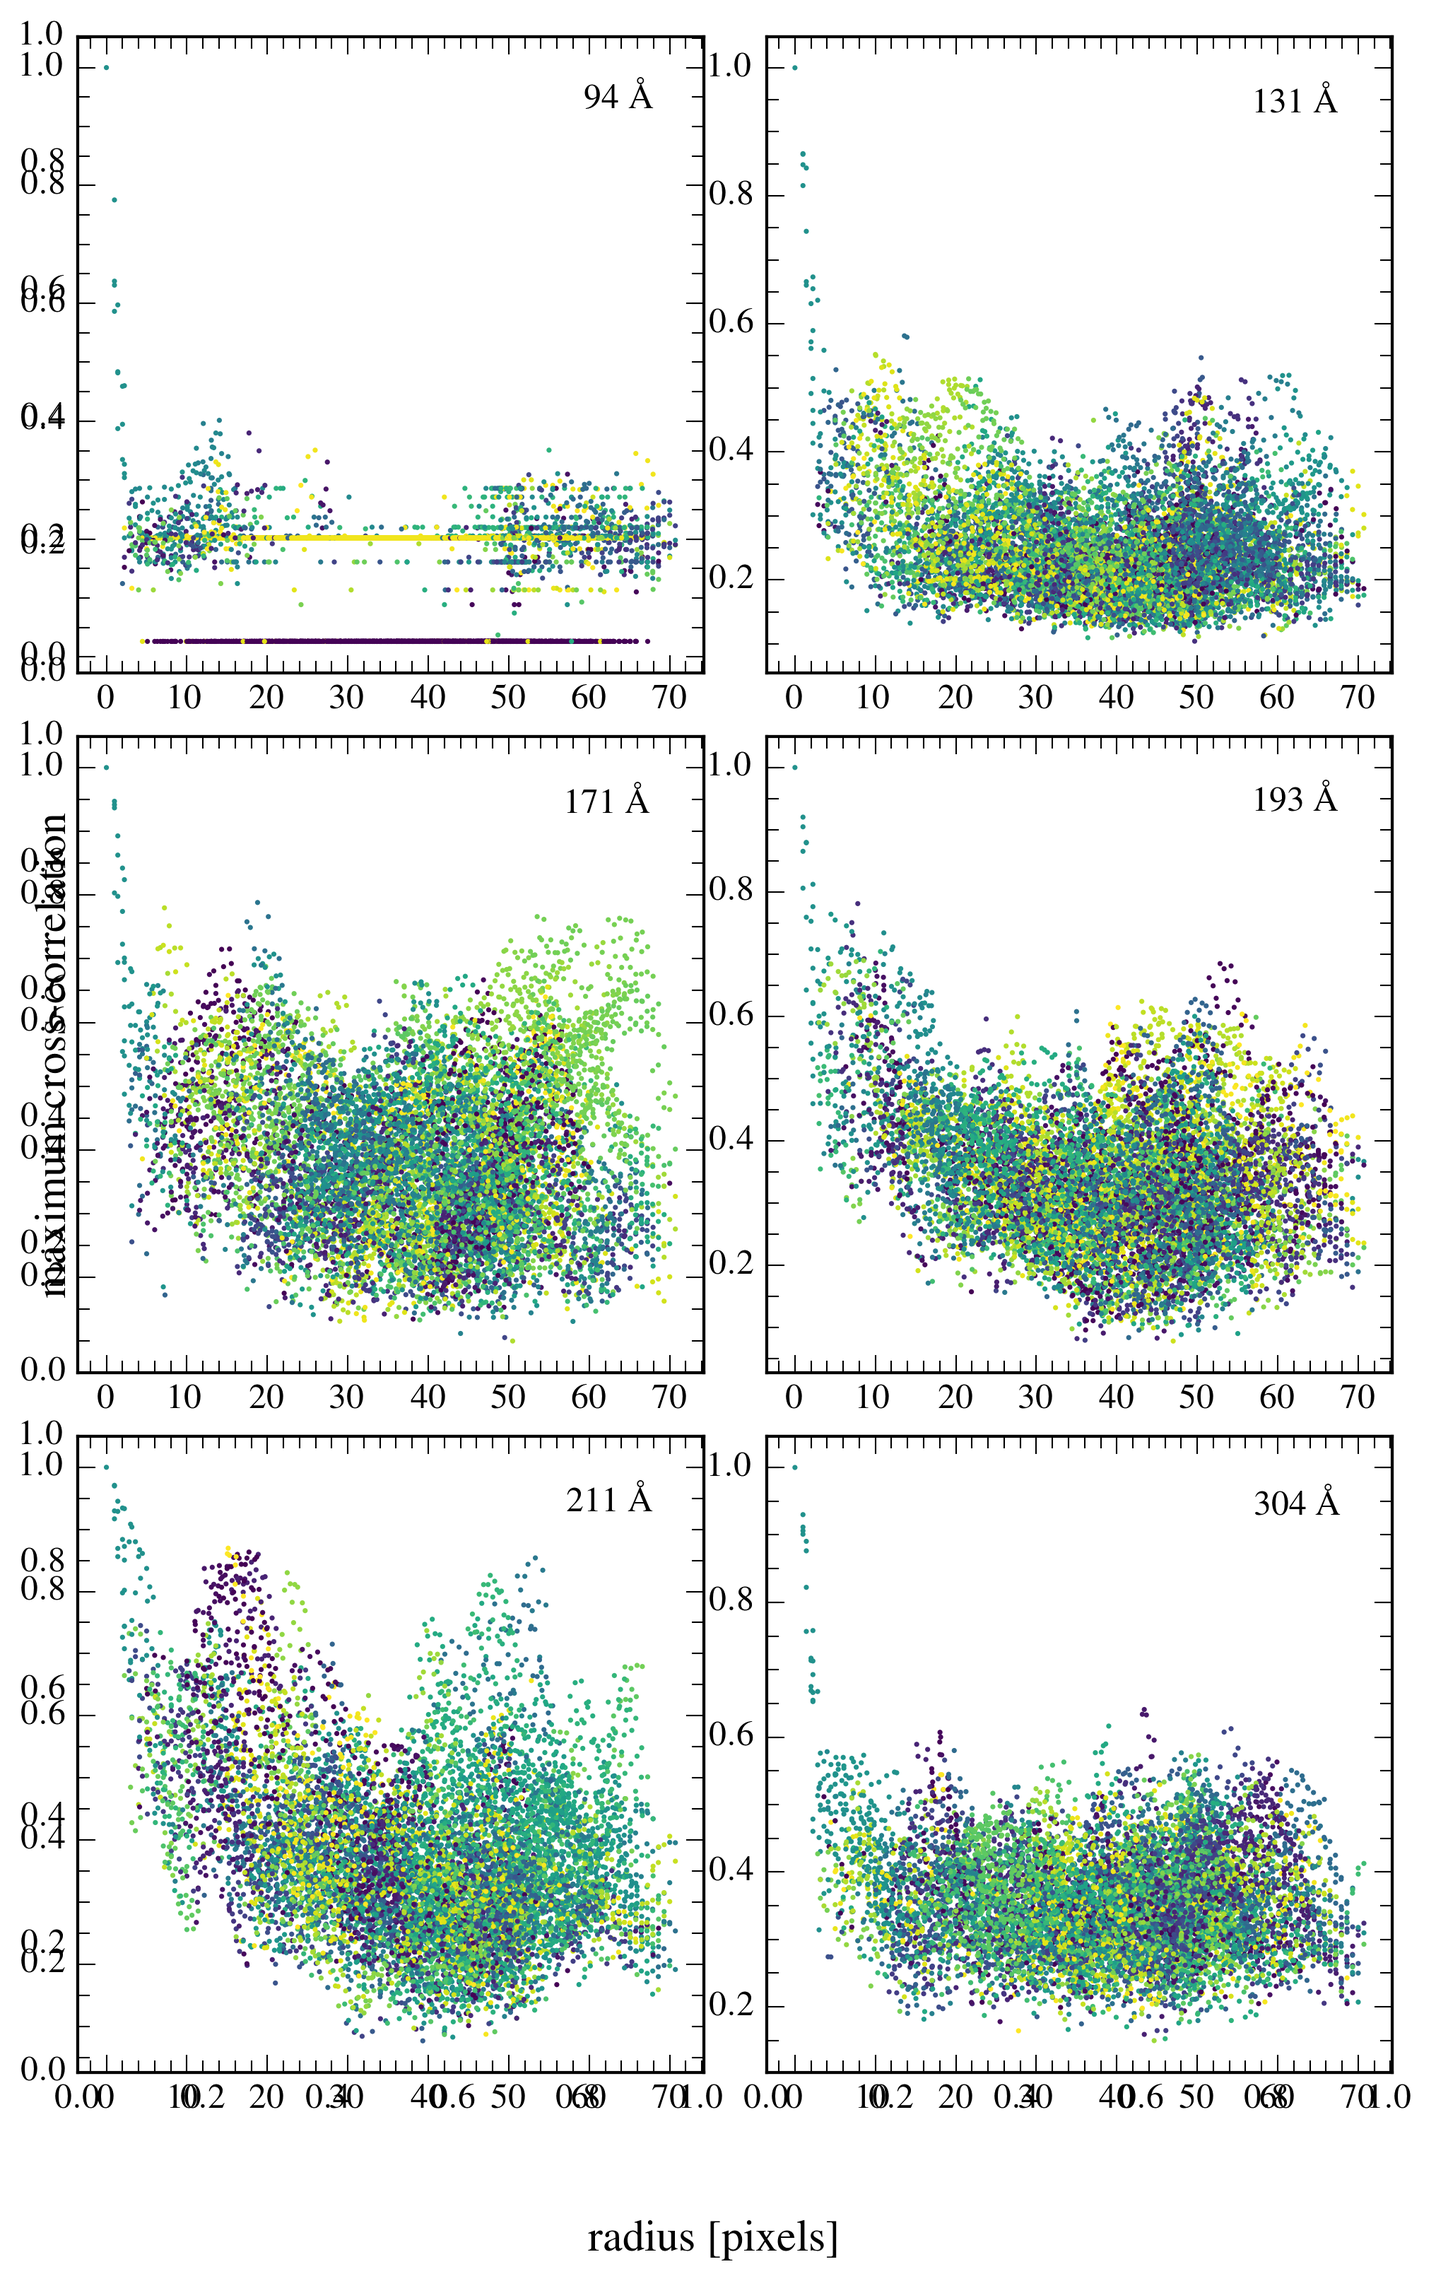
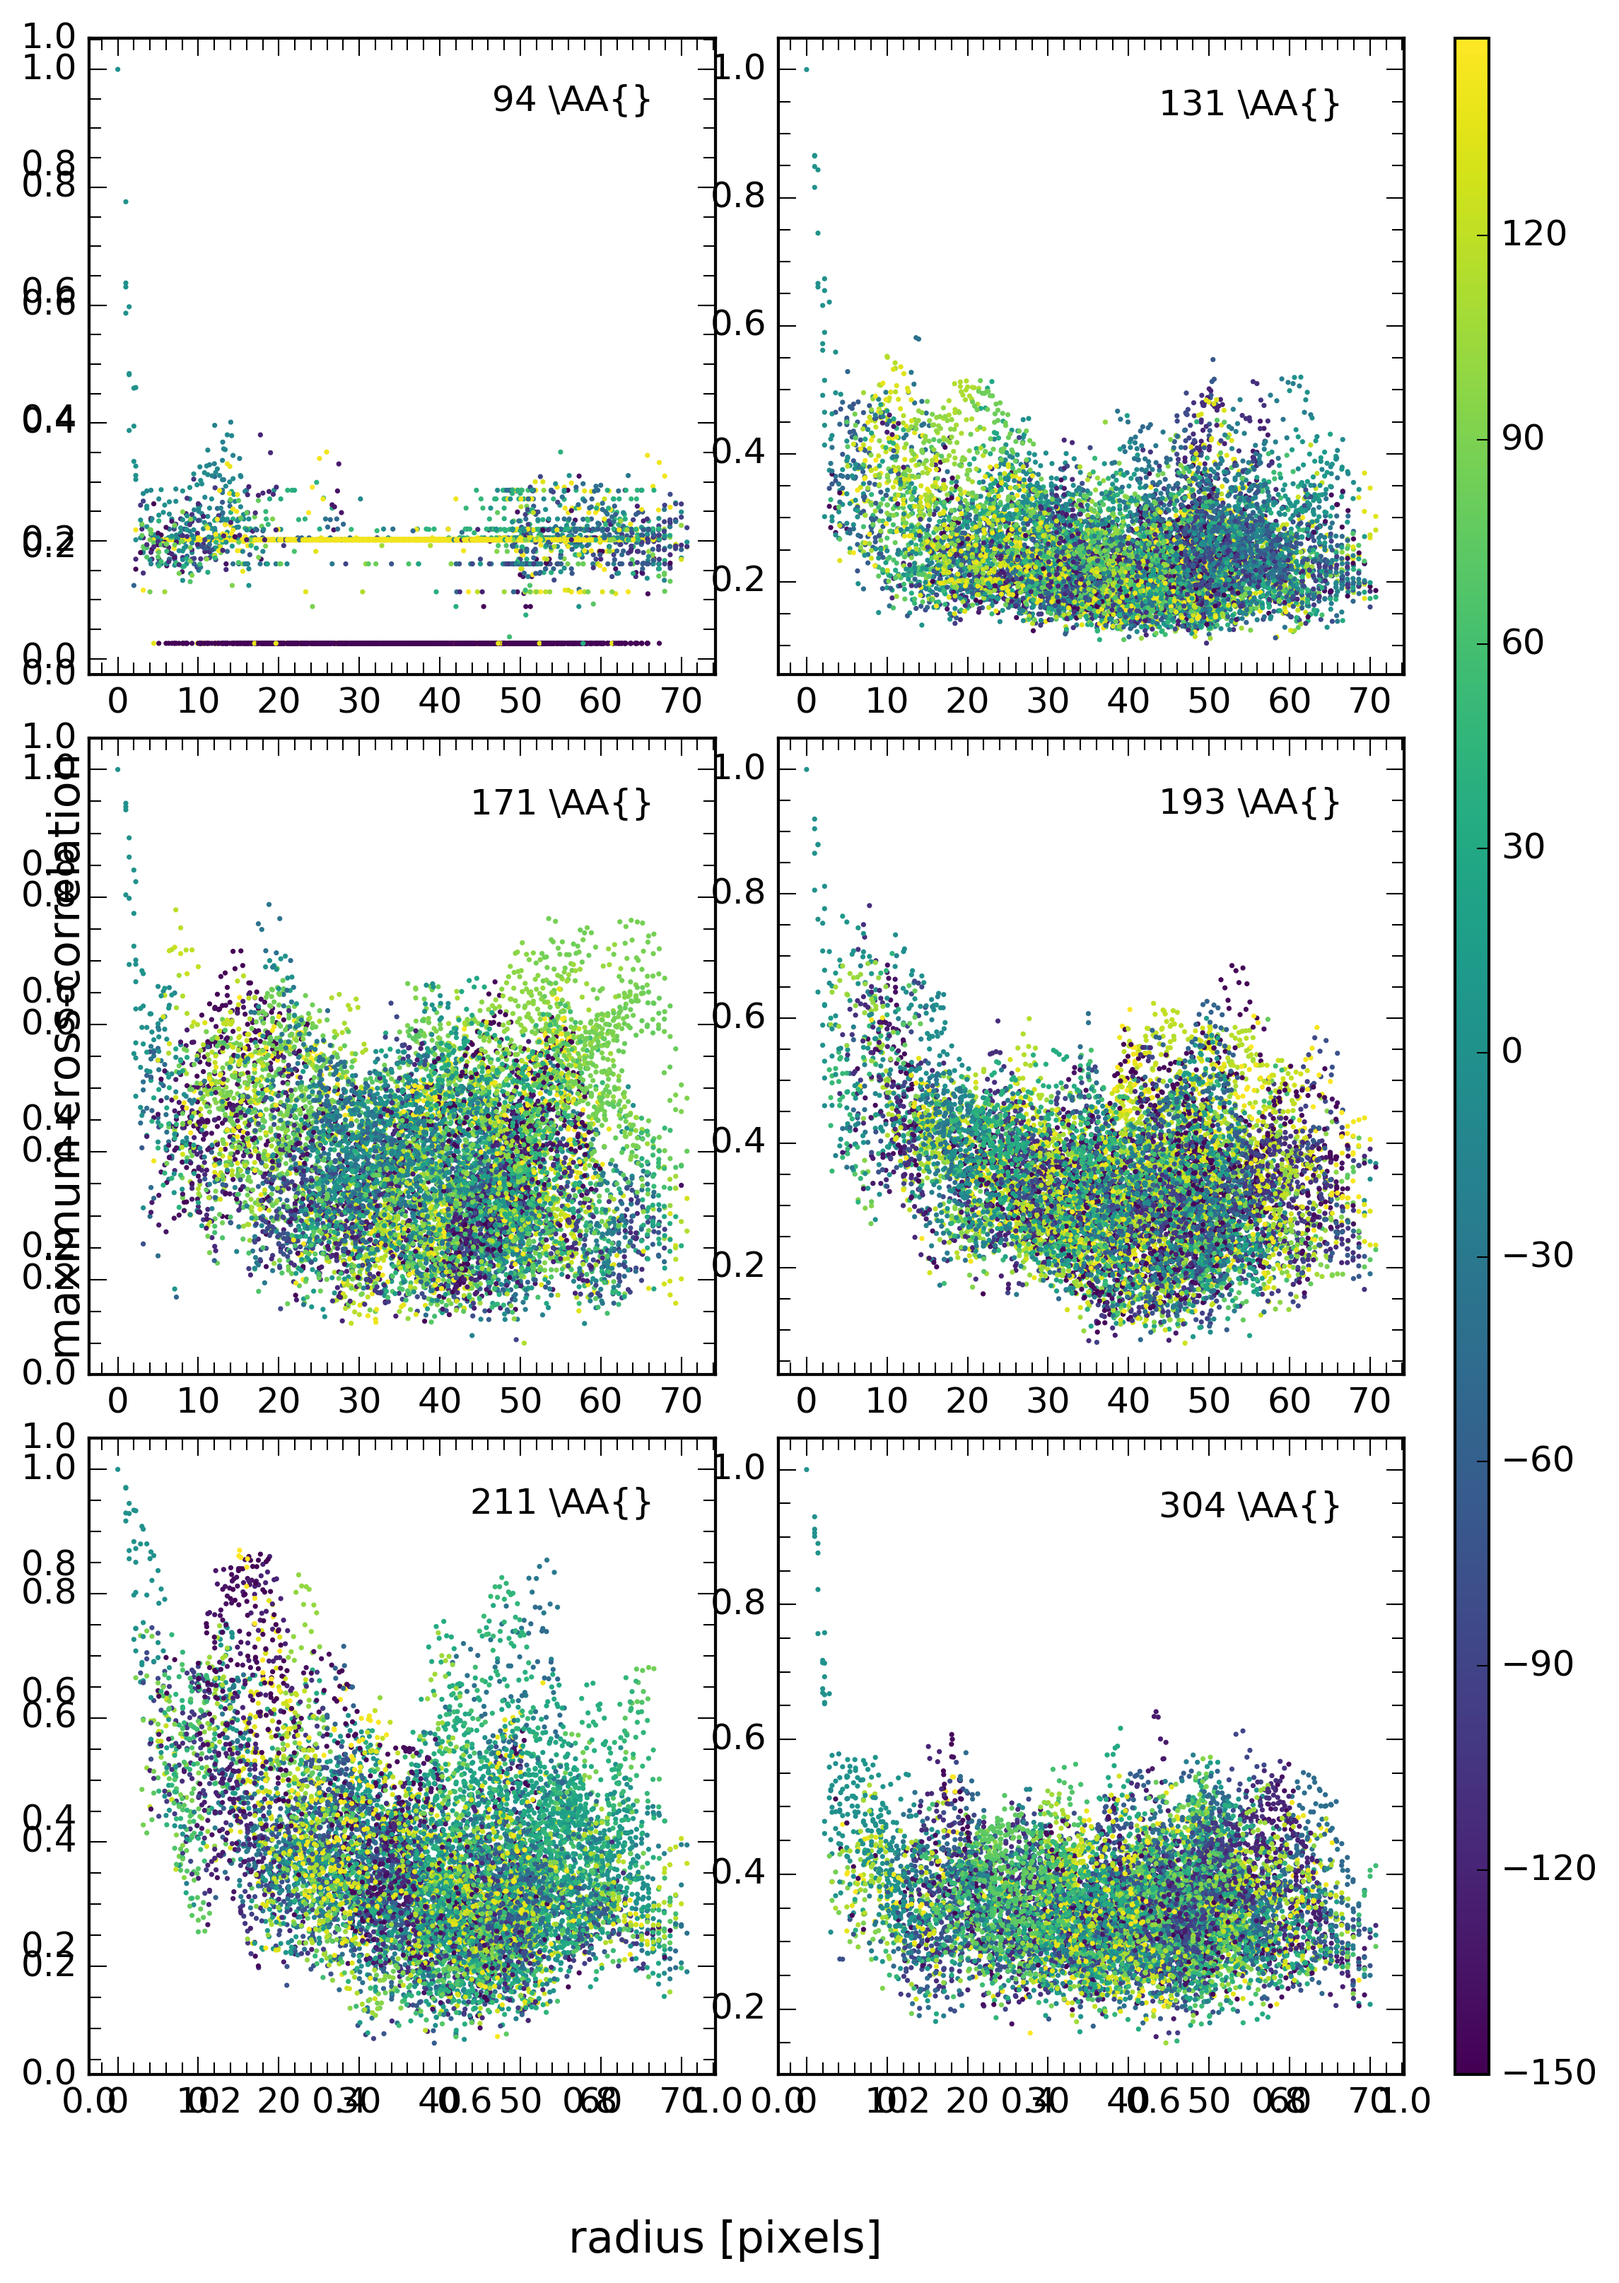
codes

diff --git a/new_codes/bp_size/plots.py b/new_codes/bp_size/plots.py
@@ -43,9 +43,9 @@ for i in range(0, len(waves)):
 fig.text(0.5, 0.03, 'radius [pixels]', ha='center', fontsize=fontsize)
 fig.text(0.1, 0.5, 'maximum cross-correlation', va='center', rotation='vertical', fontsize=fontsize)
 
-#cax = fig.add_axes([0.93, 0.10, 0.02, 0.80])
+cax = fig.add_axes([0.93, 0.10, 0.02, 0.80])
 #step=30
-#cbar = fig.colorbar(m, cax=cax)
+cbar = fig.colorbar(m, cax=cax)
 #cbar.set_ticks(np.arange(min(t),max(t)+step,step))
 #cbar.set_ticklabels(np.arange(min(t),max(t)+step,0.5*step))
 #cbar.ax.set_xticklabels(['Low', 'Medium', 'High'])  # horizontal colorbar
